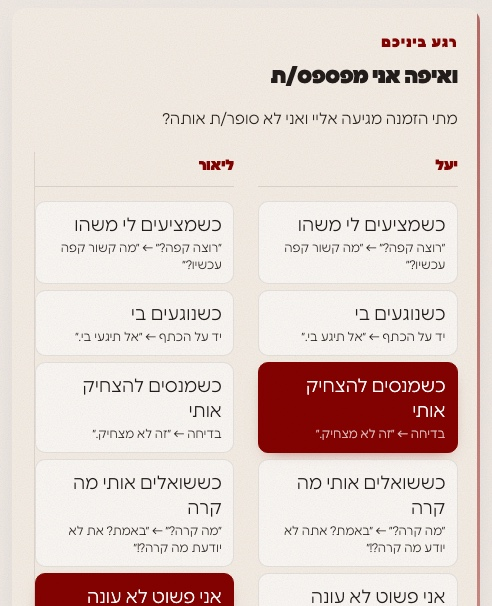
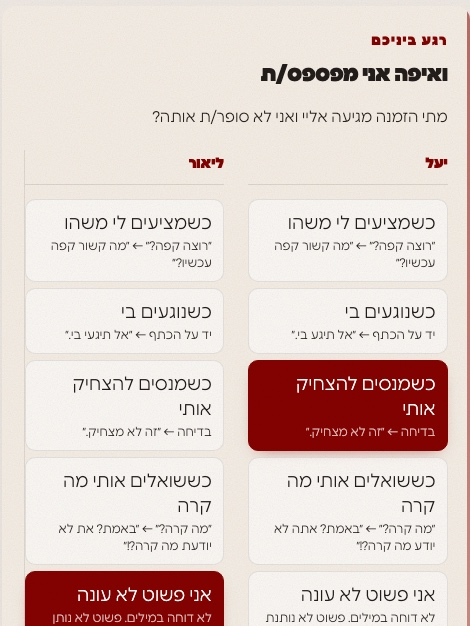
מוקאפ מניפה של שלושה טלפונים, סעיף קצר יותר

diff --git a/comeback.html b/comeback.html
@@ -248,26 +248,34 @@ footer a:hover{color:#FDF8F3;border-color:#FDF8F3}
 .trust span{display:block;font-size:12.5px;font-weight:900;letter-spacing:.06em;color:var(--mute);margin-top:7px}
 
 /* ---------- product preview ---------- */
-.inside{background:#231B17;color:#EDE2DA;padding-block:clamp(52px,7vw,96px)}
+.inside{background:#231B17;color:#EDE2DA;padding-block:clamp(48px,6vw,84px);overflow:hidden}
 .inside .tag{color:#E0A79F}
 .inside h2{color:#FFF9F5}
 .inside .hand{color:#C9B6AB;text-align:center}
-.peek{display:grid;gap:clamp(34px,4.4vw,58px);max-width:900px;margin:clamp(34px,4.4vw,56px) auto 0}
-.peek figure{margin:0;display:grid;gap:clamp(18px,2.6vw,34px);align-items:center}
-@media(min-width:720px){
-  .peek figure{grid-template-columns:300px 1fr}
-  .peek figure:nth-child(even){grid-template-columns:1fr 300px}
-  .peek figure:nth-child(even) .phone{order:2}
+
+.fan{position:relative;height:clamp(268px,40vw,360px);max-width:680px;
+  margin:clamp(30px,4vw,48px) auto 0}
+.fan .phone{position:absolute;top:0;left:50%;width:clamp(148px,21vw,206px);
+  padding:9px 7px;background:linear-gradient(160deg,#3d3029,#171110);border-radius:26px;
+  box-shadow:0 28px 55px -20px rgba(0,0,0,.8), inset 0 0 0 1px rgba(255,240,230,.14)}
+.fan .phone::before{content:"";position:absolute;top:4px;left:50%;transform:translateX(-50%);
+  width:44px;height:4px;border-radius:99px;background:rgba(255,240,230,.24)}
+.fan img{width:100%;display:block;border-radius:18px}
+.fan .p-a{transform:translateX(-50%) translate(-118px,26px) rotate(-8deg);z-index:1}
+.fan .p-c{transform:translateX(-50%) translate(118px,26px) rotate(8deg);z-index:2}
+.fan .p-b{transform:translateX(-50%) translateY(-8px);z-index:3}
+@media(max-width:560px){
+  .fan .p-a{transform:translateX(-50%) translate(-74px,22px) rotate(-9deg) scale(.9)}
+  .fan .p-c{transform:translateX(-50%) translate(74px,22px) rotate(9deg) scale(.9)}
 }
-.phone{position:relative;max-width:300px;margin-inline:auto;padding:12px 10px;
-  background:linear-gradient(160deg,#3a2e28,#191310);border-radius:30px;
-  box-shadow:0 26px 60px -22px rgba(0,0,0,.75), inset 0 0 0 1px rgba(255,240,230,.12)}
-.phone::before{content:"";position:absolute;top:5px;left:50%;transform:translateX(-50%);
-  width:58px;height:5px;border-radius:99px;background:rgba(255,240,230,.22)}
-.phone img{width:100%;display:block;border-radius:20px}
-.peek figcaption{font-size:clamp(15.5px,1.2vw,17.5px);color:#C9B6AB;line-height:1.65;text-align:right}
-.peek figcaption b{display:block;font-weight:900;color:#FFF9F5;font-size:clamp(19px,1.6vw,25px);
-  line-height:1.25;margin-bottom:9px}
+
+.peeknotes{display:grid;gap:clamp(16px,2.2vw,26px);max-width:900px;
+  margin:clamp(30px,3.6vw,46px) auto 0;text-align:right}
+@media(min-width:720px){.peeknotes{grid-template-columns:repeat(3,1fr)}}
+.peeknotes div{font-size:clamp(14.5px,1.1vw,16px);color:#C9B6AB;line-height:1.6;
+  border-top:1px solid rgba(237,226,218,.22);padding-top:13px}
+.peeknotes b{display:block;font-weight:900;color:#FFF9F5;
+  font-size:clamp(16.5px,1.3vw,19px);line-height:1.3;margin-bottom:6px}
 
 /* ---------- anchor / deadline note ---------- */
 .anchor{margin-top:16px;font-size:16px;color:var(--sand);max-width:44ch;margin-inline:auto;line-height:1.5}
@@ -533,31 +541,19 @@ footer a:hover{color:#FDF8F3;border-color:#FDF8F3}
       </div>
     </div>
 
-    <div class="peek">
-      <figure class="rv">
-        <div class="phone"><img src="preview/p1.jpg" alt="תחנה 01 · מה כל אחד שומע כשמבקשים הפסקה"></div>
-        <figcaption>
-          <b>״בוא נעצור״ נשמע כמו נטישה</b>
-          שניכם עונים על אותו מסך, כל אחד בטור שלו, ורואים בזמן אמת מה השני סימן. זה הרגע שבו מתגלה הפער.
-        </figcaption>
-      </figure>
-      <figure class="rv">
-        <div class="phone"><img src="preview/p2.jpg" alt="תחנה 03 · איך נראית הזמנה לחיבור שלא נספרה"></div>
-        <figcaption>
-          <b>ההזמנה שלא נספרה</b>
-          כל תחנה נפתחת במסר קולי קצר ממני, ואחריו תרגיל. עשרים דקות, מהטלפון, ואפשר לעצור באמצע ולחזור לאותו מקום.
-        </figcaption>
-      </figure>
-      <figure class="rv">
-        <div class="phone"><img src="preview/p3.jpg" alt="תחנה 04 · שתי גרסאות לאותו ריב"></div>
-        <figcaption>
-          <b>שתי חוויות, אותו ריב</b>
-          בסוף כל תחנה נבנית לכם מפה: מילת הקוד שעוצרת ריב, מי מחזיר לשיחה, ומה כל אחד עושה בפעם הבאה. מדפיסים, ותולים על המקרר.
-        </figcaption>
-      </figure>
+    <div class="fan rv">
+      <div class="phone p-a"><img src="preview/p2.jpg" alt="תחנה 03 · הזמנה לחיבור שלא נספרה"></div>
+      <div class="phone p-c"><img src="preview/p3.jpg" alt="תחנה 04 · שתי גרסאות לאותו ריב"></div>
+      <div class="phone p-b"><img src="preview/p1.jpg" alt="תחנה 01 · מה כל אחד שומע כשמבקשים הפסקה"></div>
     </div>
 
-    <p class="hand rv" style="margin-top:clamp(28px,3.4vw,44px)">
+    <div class="peeknotes rv">
+      <div><b>״בוא נעצור״ נשמע כמו נטישה</b>שניכם עונים על אותו מסך, ורואים בזמן אמת מה השני סימן.</div>
+      <div><b>ההזמנה שלא נספרה</b>כל תחנה נפתחת במסר קולי ממני, ואחריו תרגיל קצר.</div>
+      <div><b>שתי חוויות, אותו ריב</b>ובסוף נבנית לכם מפה, שמדפיסים ותולים על המקרר.</div>
+    </div>
+
+    <p class="hand rv" style="margin-top:clamp(22px,2.6vw,32px)">
       ואם בן או בת הזוג עדיין לא שם, אפשר לעבור את זה לבד ולהביא אליהם את מה שגיבשתם
     </p>
   </div>
